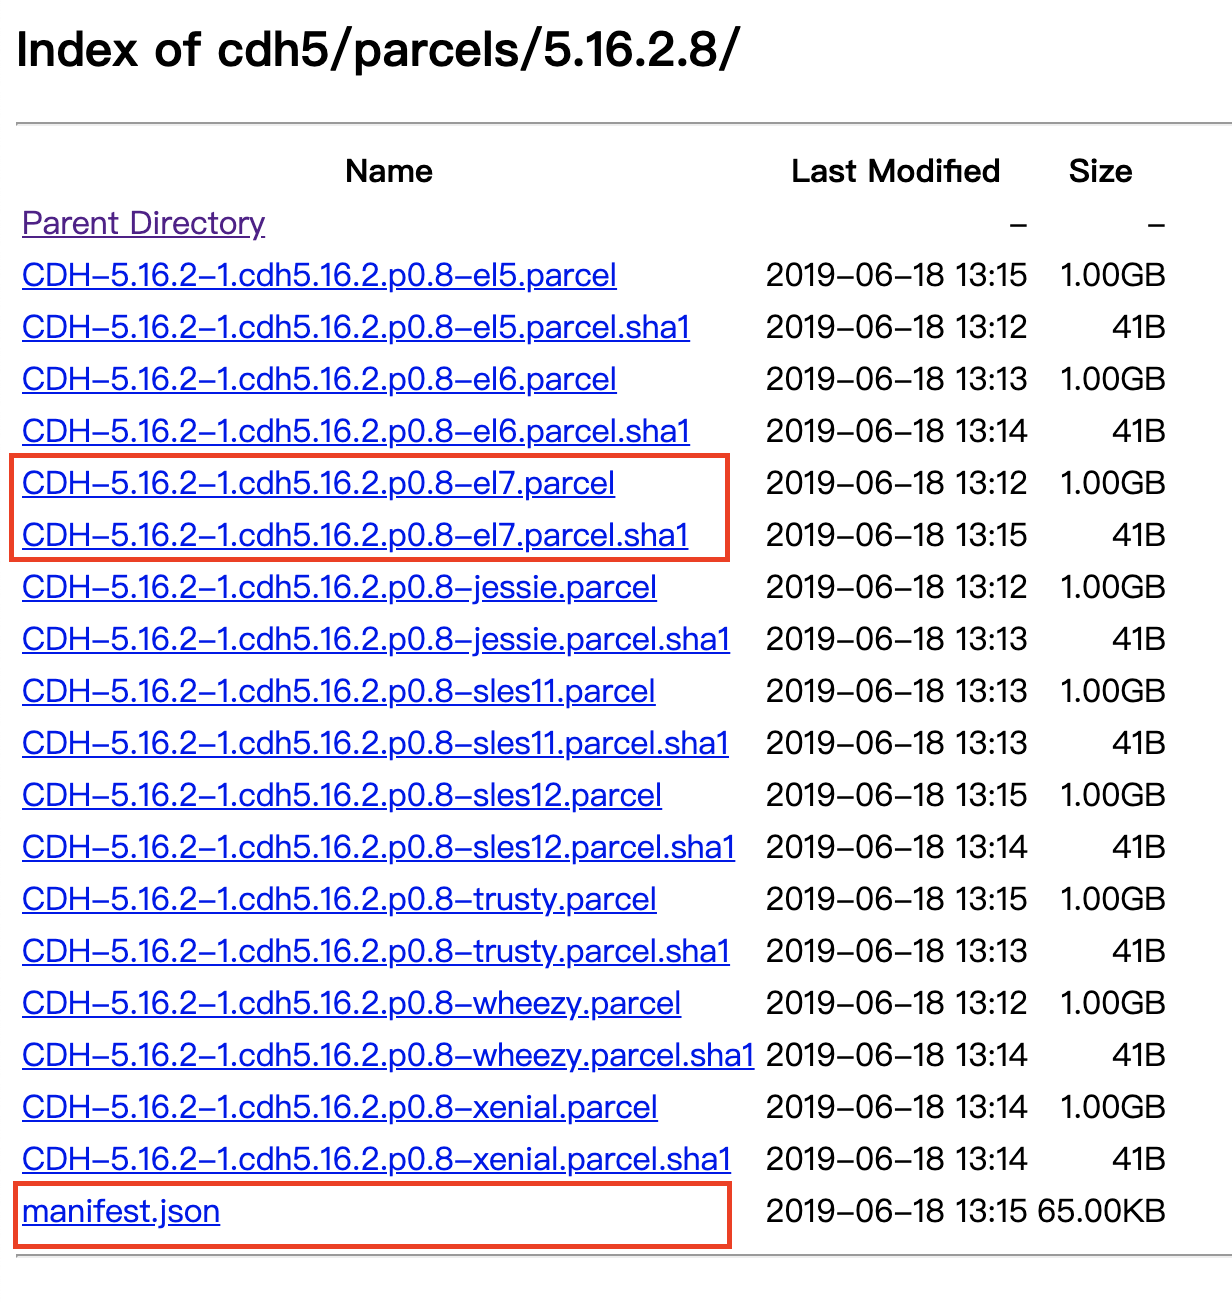
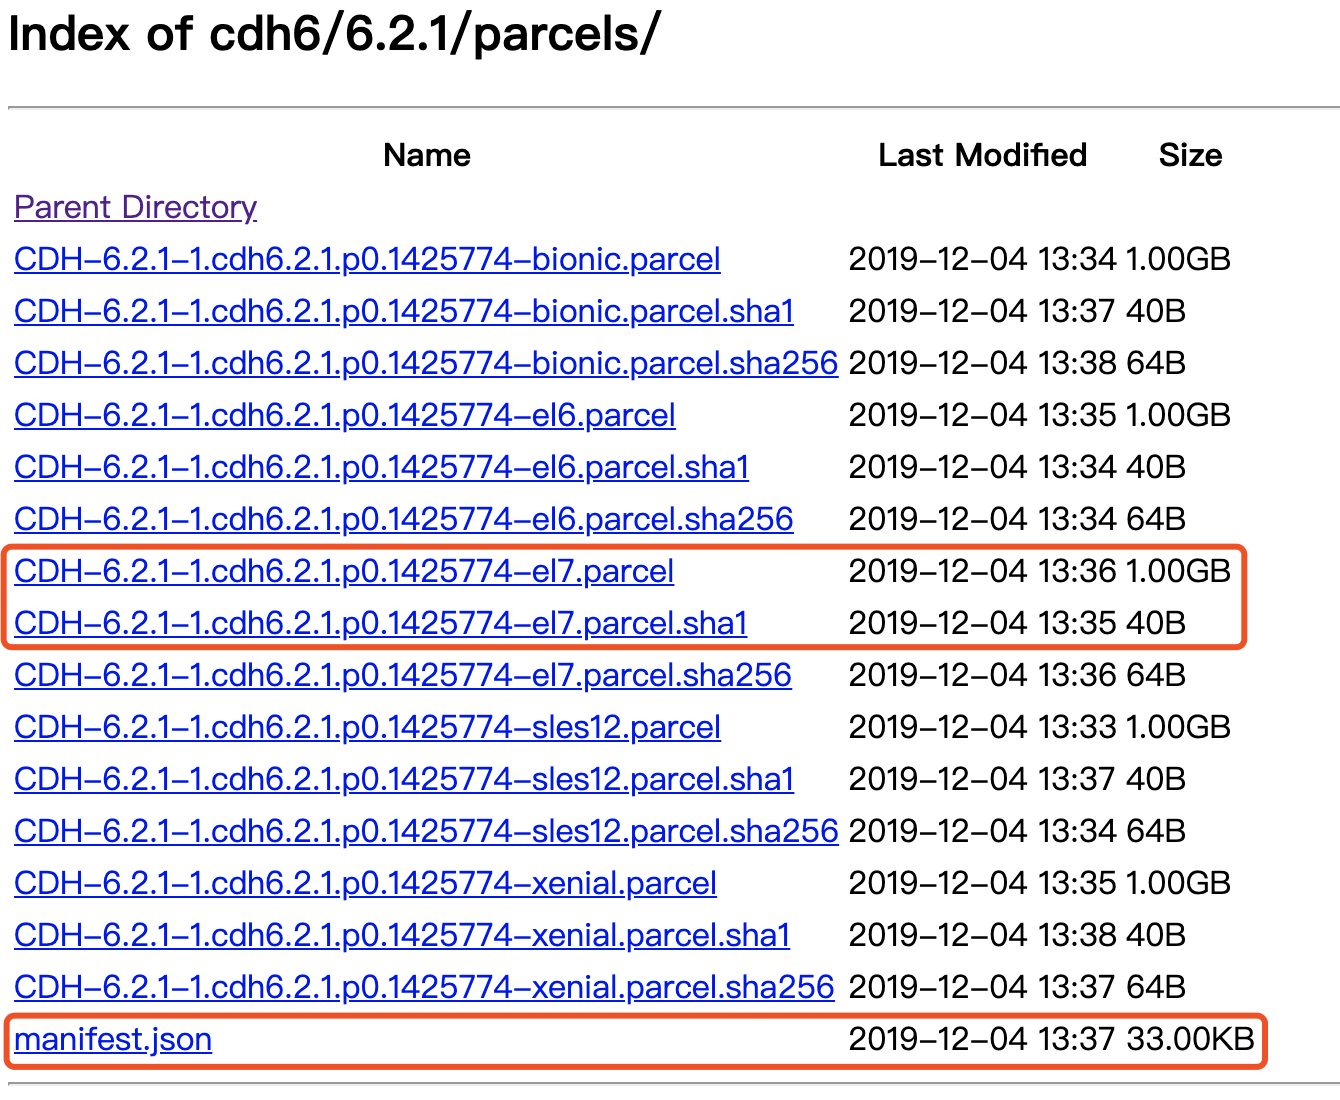
完善文档

Changed region(s): [[0.0, 0.1545, 1.0, 0.9891], [0.0, 0.0927, 1.0, 0.1545], [0.0, 0.0, 0.6169, 0.0618]]

diff --git a/centos7-cdh/README.md b/centos7-cdh/README.md
@@ -1,41 +1,71 @@
-# Cloudera Manager 5.16.2 centos7离线安装
+# Cloudera Manager 6.2.1 Centos7离线安装
 
 # 1.服务器节点规划
 
-机器名 | ip地址 | 操作系统 |
--------------| -------------- | -------------
-cdh1.com | 192.21.0.2 | centos7.7
-cdh2.com | 192.21.0.3 | centos7.7
-cdh3.com | 192.21.0.4 | centos7.7
-cdh4.com | 192.21.0.5 | centos7.7
-
+机器名 | ip地址 | 操作系统 | 备注 |
+-------------| -------------- | -------------|-------------
+a.cdh.com | 192.21.0.2 | centos7.7 | cloudera manager master
+b.cdh.com | 192.21.0.3 | centos7.7 | &nbsp;
+c.cdh.com | 192.21.0.4 | centos7.7 | &nbsp;
+e.cdh.com | 192.21.0.5 | centos7.7 | &nbsp;
+mysql.cdh.com | 172.21.0.10 | mysql5.7容器 | &nbsp;
 
 
 # 2.下载
 
 ## 2.1 CM软件包下载
-[http://archive.cloudera.com/cm5/redhat/7/x86_64/cm/5.16.2/RPMS/x86_64/](http://archive.cloudera.com/cm5/redhat/7/x86_64/cm/5.16.2/RPMS/x86_64/)
+[https://archive.cloudera.com/cm6/6.2.1/redhat7/yum/RPMS/x86_64/](https://archive.cloudera.com/cm6/6.2.1/redhat7/yum/RPMS/x86_64/)
 ![cm](img/2020-02-28.01.png)
-红框所圈为必须要下载的rpm包，其它包可选。
+下载目录中所有rpm包
+
 
 ## 2.2 Parcels下载
-[http://archive.cloudera.com/cdh5/parcels/5.16.2.8/](http://archive.cloudera.com/cdh5/parcels/5.16.2.8/)
+[https://archive.cloudera.com/cdh6/6.2.1/parcels/](https://archive.cloudera.com/cdh6/6.2.1/parcels/)
 ![parcels](img/2020-02-28.02.png)
 
 el7 对应centos7  
 el6 对应centos6
 
-注：*parcel、sha1、manifest三个文件传至指定目录*：/opt/cloudera/parcel-repo
+下载parcel、sha1、manifest三个文件即可。
 
 
 ## 2.3 仓库文件下载
-[cloudera-manager.repo](http://archive.cloudera.com/cm5/redhat/7/x86_64/cm/cloudera-manager.repo)
+[https://archive.cloudera.com/cm6/6.2.1/redhat7/yum/cloudera-manager.repo](https://archive.cloudera.com/cm6/6.2.1/redhat7/yum/cloudera-manager.repo)
 
+目的是自定义yum安装源时，在此文件基础上修改。
 
-其它rpm包及bin文件存放目录不限
+## 2.4 Mysql驱动包下载
+要求使用5.1.26以上版本的jdbc驱动，下载地址：
+[mysql-connector-java-5.1.47.tar.gz](https://dev.mysql.com/get/Downloads/Connector-J/mysql-connector-java-5.1.47.tar.gz)
 
-## 2.4 安装配置httpd
-将下载的rmp包等文件，复制到/var/www/html/目录下，供下载，目录结构：
+## 2.5 安装配置httpd
+找任意一台机器，安装apache http服务,创建安装源，用于配置本地安装源，提供包下载
+```shell script
+yum -y install httpd createrepo
+
+```
+将下载的所有安装文件，复制到/var/www/html/目录下，其目录结构如下：
+```shell script
+cloudera-repos
+├── cdh6.2.1
+│   ├── CDH-6.2.1-1.cdh6.2.1.p0.1425774-el7.parcel
+│   ├── CDH-6.2.1-1.cdh6.2.1.p0.1425774-el7.parcel.sha1
+│   └── manifest.json
+├── cm6.2.1
+│   ├── allkeys.asc
+│   ├── cloudera-manager-agent-6.2.1-1426065.el7.x86_64.rpm
+│   ├── cloudera-manager-daemons-6.2.1-1426065.el7.x86_64.rpm
+│   ├── cloudera-manager-server-6.2.1-1426065.el7.x86_64.rpm
+│   ├── cloudera-manager-server-db-2-6.2.1-1426065.el7.x86_64.rpm
+│   ├── enterprise-debuginfo-6.2.1-1426065.el7.x86_64.rpm
+│   └── oracle-j2sdk1.8-1.8.0+update181-1.x86_64.rpm
+└── mysql-connector-java-5.1.47.tar.gz
+```
+在cm6.2.1目录下生成rpm源数据
+```shell script
+createrepo .
+chmod 777 -R cloudera-repos
+```
 
 
 # 3. 安装
@@ -47,9 +77,71 @@ el6 对应centos6
 
 mysql安装参考文献：[CDH 依赖的MySQL 数据库安装配置说明](https://www.cndba.cn/cndba/dave/article/3374)
 
-### 3.1.1 复制mysql驱动包
-将 mysql-connector-java-5.1.47-bin.jar 文件上传至 CM Server节点上的 /usr/share/java/ 目录下并重命名为mysql-connector-java.jar（如果/usr/share/java/目录不存在，需要手动创建）
+CDH官网推荐mysqld.cnf配置：
 ```shell script
+[mysqld]
+datadir=/var/lib/mysql
+socket=/var/run/mysqld/mysqld.sock
+transaction-isolation = READ-COMMITTED
+# Disabling symbolic-links is recommended to prevent assorted security risks;
+# to do so, uncomment this line:
+symbolic-links = 0
+
+
+key_buffer_size = 32M
+max_allowed_packet = 32M
+thread_stack = 256K
+thread_cache_size = 64
+query_cache_limit = 8M
+query_cache_size = 64M
+query_cache_type = 1
+
+max_connections = 550
+#expire_logs_days = 10
+#max_binlog_size = 100M
+
+#log_bin should be on a disk with enough free space.
+#Replace '/var/lib/mysql/mysql_binary_log' with an appropriate path for your
+#system and chown the specified folder to the mysql user.
+log_bin=/var/lib/mysql/mysql_binary_log
+
+#In later versions of MySQL, if you enable the binary log and do not set
+#a server_id, MySQL will not start. The server_id must be unique within
+#the replicating group.
+server_id=1
+
+binlog_format = mixed
+
+read_buffer_size = 2M
+read_rnd_buffer_size = 16M
+sort_buffer_size = 8M
+join_buffer_size = 8M
+
+# InnoDB settings
+innodb_file_per_table = 1
+innodb_flush_log_at_trx_commit  = 2
+innodb_log_buffer_size = 64M
+innodb_buffer_pool_size = 4G
+innodb_thread_concurrency = 8
+innodb_flush_method = O_DIRECT
+innodb_log_file_size = 512M
+
+[mysqld_safe]
+log-error=/var/log/mysqld.log
+pid-file=/var/run/mysqld/mysqld.pid
+
+sql_mode=STRICT_ALL_TABLES
+
+
+# 表名不区分大小写
+# lower_case_table_names=1
+
+```
+
+### 3.1.1 复制mysql驱动包
+将mysql-connector-java-5.1.47.tar.gz文件上传至 CM Server节点上的 /usr/share/java/ 目录下并重命名为mysql-connector-java.jar（如果/usr/share/java/目录不存在，需要手动创建）
+```shell script
+tar zxvf mysql-connector-java-5.1.47.tar.gz 
 mkdir /usr/share/java
 cp mysql-connector-java-5.1.47.jar /usr/share/java/mysql-connector-java.jar
 ```
@@ -69,6 +161,7 @@ Cloudera Navigator Audit Server	| nav | nav
 Cloudera Navigator Metadata Server | navms | nav
 Oozie	| oozie | oozie
 
+数据库初始化脚本
 
 ```
 -- 注意scm的数据库不需要创建，在CDH 数据库初始化时会自动创建
@@ -104,18 +197,18 @@ grant all on oozie.* to 'oozie'@'%' identified by 'oozie';
 ## 3.2 Cloudrea Manager安装
 
 ### 3.2.1 修改仓库文件
-修改仓库文件cloudera-manager.repo，把版本号加上
+修改仓库文件cloudera-manager.repo
   
 ```shell script
 vi cloudera-manager.repo
 ```
+
 ```shell script
 [cloudera-manager]
-# Packages for Cloudera Manager, Version 5, on RedHat or CentOS 7 x86_64
-name=Cloudera Manager
-baseurl=https://archive.cloudera.com/cm5/redhat/7/x86_64/cm/5.16.2/   # 主要改这里的版本号
-gpgkey =https://archive.cloudera.com/cm5/redhat/7/x86_64/cm/RPM-GPG-KEY-cloudera
-gpgcheck = 1
+name=Cloudera Manager 6.2.1
+baseurl=https://a.cdh.com/cloudera-repos/cm6.2.1/  # 改为本地安装源地址
+gpgcheck=0  # 不做gpg校验
+enabled=1
 ```
 
 
@@ -127,8 +220,8 @@ cp cloudera-manager.repo /etc/yum.repos.d
  * 验证repo文件是否生效？
 
  ```shell script
-# 清除yum缓存
-yum clean all
+# 清除并重新生成yum缓存
+yum clean all && yum makecache
 # 列举yum可用的cloudera安装包
 yum list | grep cloudera
 ```
@@ -144,12 +237,34 @@ jdk.x86_64                                2000:1.6.0_31-fcs              clouder
 oracle-j2sdk1.7.x86_64                    1.7.0+update67-1               cloudera-manager
 ```
 
-### 3.2.2 安装cloudera-manager依赖的RPM包
-切换回/opt/cloudera-manager目录,采用本地安装方式，不会去远程仓库下载rpm包,达到离线安装效果，不做gpg检验
+### 3.2.2 安装cloudera-manager
 ```shell script
-yum localinstall --nogpgcheck *.rpm
+
+# 安装openjdk8
+yum install oracle-j2sdk1.8
+
+# 安装cm manager(只需在cm server节点安装)
+yum install cloudera-manager-daemons cloudera-manager-agent cloudera-manager-server
+
 ```
-按提示完成即可
+### 3.2.3 配置本地Parcel存储库
+Cloudera Manager Server安装完成后，进入到本地Parcel存储库目录：
+```shell script
+mkdir -p /opt/cloudera/parcel-repo
+```
+将cdh6.2.1目录下的三个parcel安装文件上传至/opt/cloudera/parcel-repo/目录下。
+修改CDH-6.2.1-1.cdh6.2.1.p0.1425774-el7.parcel.sha1文件名
+```shell script
+mv CDH-6.2.1-1.cdh6.2.1.p0.1425774-el7.parcel.sha1 CDH-6.2.1-1.cdh6.2.1.p0.1425774-el7.parcel.sha
+```
+
+最终/opt/cloudera/parcel-repo目录内容如下：
+```shell script
+parcel-repo
+├── CDH-6.2.1-1.cdh6.2.1.p0.1425774-el7.parcel
+├── CDH-6.2.1-1.cdh6.2.1.p0.1425774-el7.parcel.sha
+└── manifest.json
+```
 
 
 ### 3.2.3 配置数据库脚本
@@ -189,62 +304,8 @@ com.cloudera.cmf.db.password=scm
 ```
 
 
+------
 
-### ~~3.2.3 启动安装器~~
-进入cloudera-manager-installer.bin文件目录，赋予可执行权限
- ```shell script
-chmod +x cloudera-manager-installer.bin
-
-# 安装
-./cloudera-manager-installer.bin --skip_repo_package=1
-```
-遇到错误提示：
-如果要继续安装，要求要删除文件：/etc/cloudera-scm-server/db.properties
-![error](img/2020-03-02.01.png)
-删除文件
-```shell script
-rm /etc/cloudera-scm-server/db.properties
-```
-
-重新运行安装命令，按提示一步一步完成即可。
-
-![progress](img/2020-03-02.02.png)
-安装JDK时,界面一直卡在20%进度，不动了，推测原因，JDK远程下载太慢。
-```shell script
-[root@4fe527430f25 cloudera-manager-installer]# cat /var/log/cloudera-manager-installer/1.install-oracle-j2sdk1.7.log
-Loaded plugins: fastestmirror, ovl
-Loading mirror speeds from cached hostfile
- * base: ap.stykers.moe
- * extras: mirrors.aliyun.com
- * updates: mirrors.cn99.com
-Resolving Dependencies
---> Running transaction check
----> Package oracle-j2sdk1.7.x86_64 0:1.7.0+update67-1 will be installed
---> Finished Dependency Resolution
-
-Dependencies Resolved
-
-================================================================================
- Package             Arch       Version              Repository            Size
-================================================================================
-Installing:
- oracle-j2sdk1.7     x86_64     1.7.0+update67-1     cloudera-manager     135 M
-
-Transaction Summary
-================================================================================
-Install  1 Package
-
-Total download size: 135 M
-Installed size: 279 M
-Downloading packages:
-
-
-Exiting on user cancel
-```
-查看安装日志，与推测一致。
-*不推荐使用cloudera-manager-installer.bin安装器进行安装*
-
-我的机器已有JDK环境，不再需要安装
 
 ### 3.2.3 启动Cloudera-Manager
 systemctl start cloudera-scm-server 或者  /etc/init.d/cloudera-scm-server start
